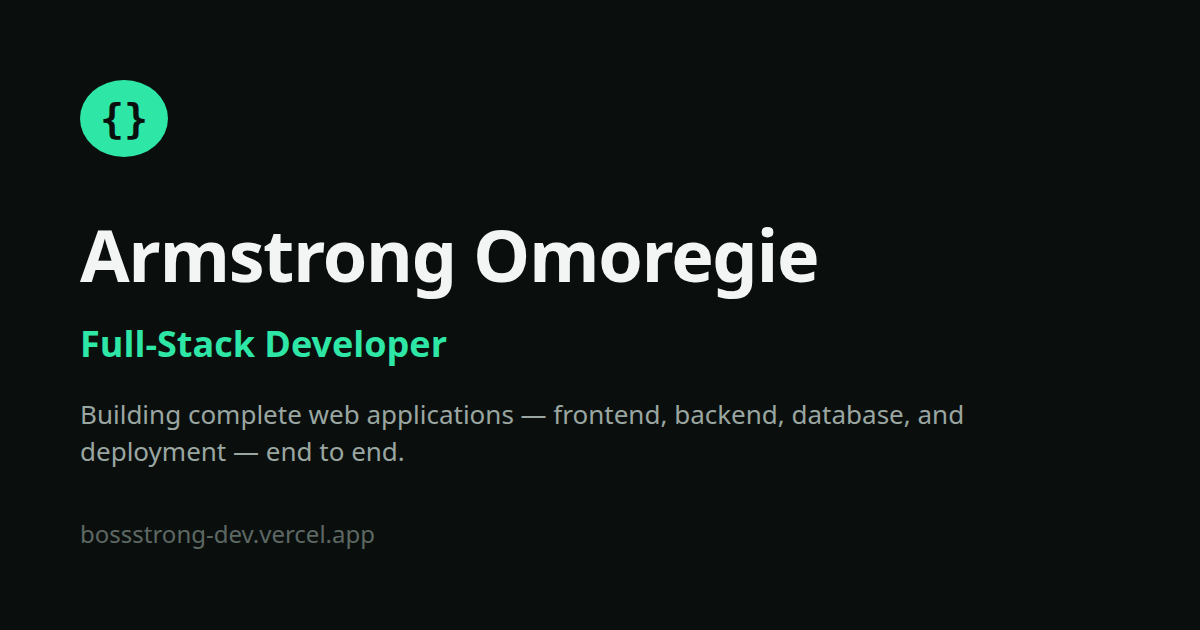
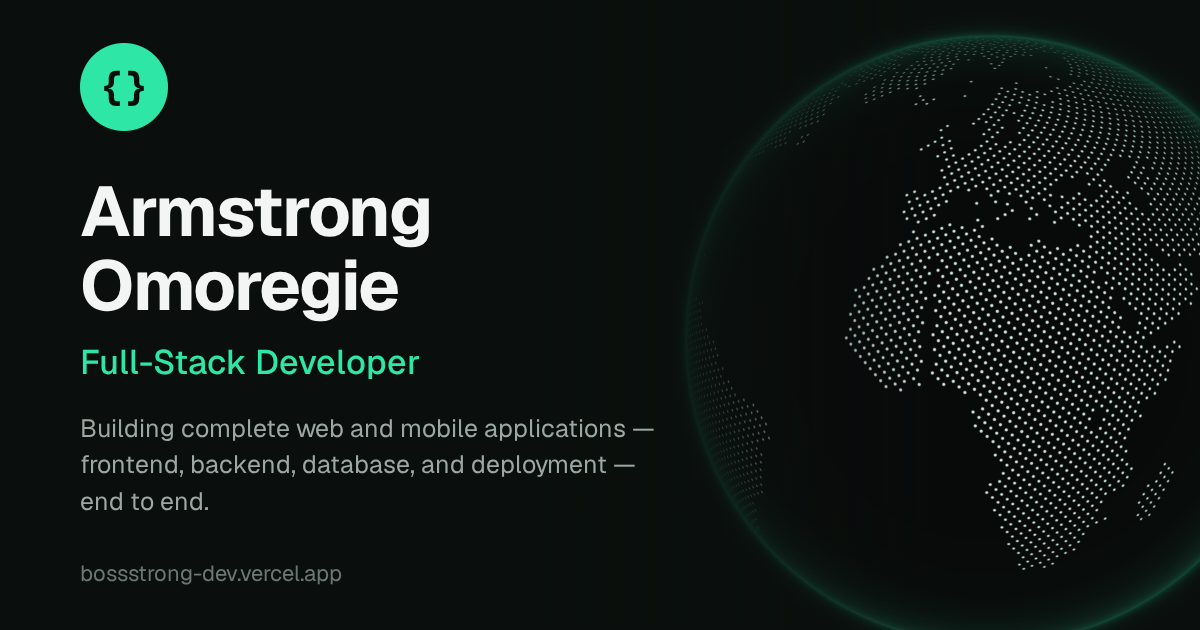
SEO: refresh the link preview image with the hero globe
New 1200x630 og-default.png matching the current site: name, title, and a
web-and-mobile tagline beside the homepage globe in the dark palette. The
image URL gets a ?v=2 suffix so WhatsApp, Facebook, X, and LinkedIn fetch
the new image instead of their cached copy.

diff --git a/lib/site-config.ts b/lib/site-config.ts
@@ -10,4 +10,6 @@ export const DEVELOPER_TITLE = "Full-Stack Developer";
 export const DEFAULT_TITLE = `${DEVELOPER_NAME} — ${DEVELOPER_TITLE}`;
 export const DEFAULT_DESCRIPTION =
   "Full-stack developer portfolio for Armstrong Omoregie — projects, engineering writing, and background across React, Next.js, and Supabase/PostgreSQL.";
-export const DEFAULT_OG_IMAGE = `${SITE_URL}/og-default.png`;
+// The ?v= suffix busts link-preview caches (WhatsApp, Facebook, X, LinkedIn
+// cache by image URL). Bump it whenever og-default.png is replaced.
+export const DEFAULT_OG_IMAGE = `${SITE_URL}/og-default.png?v=2`;
